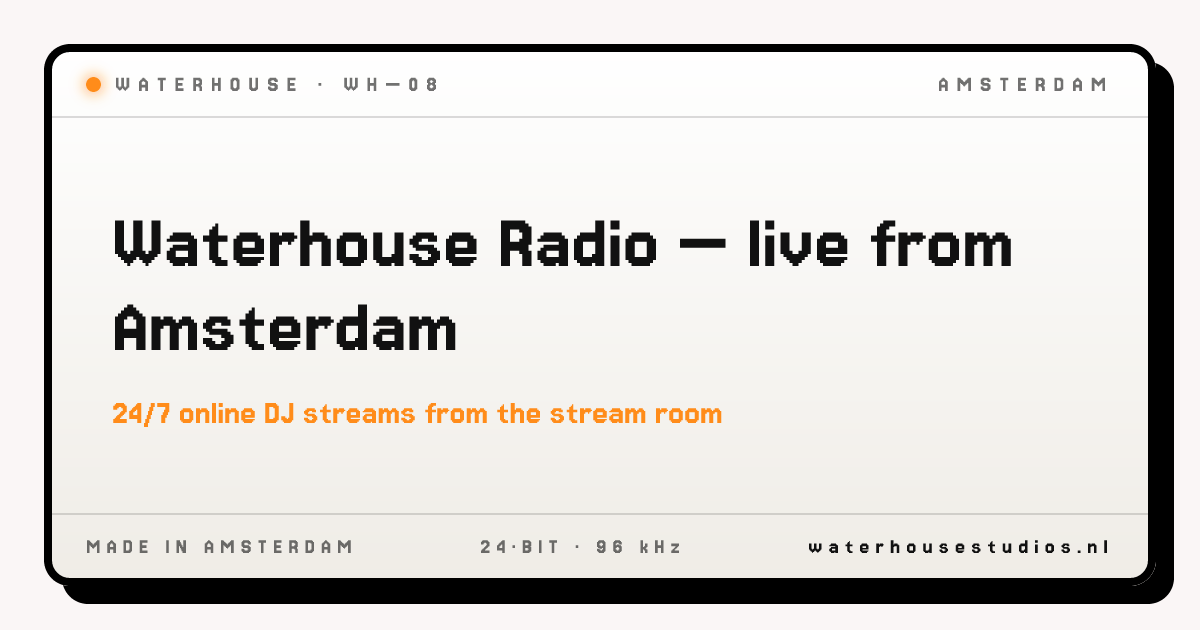
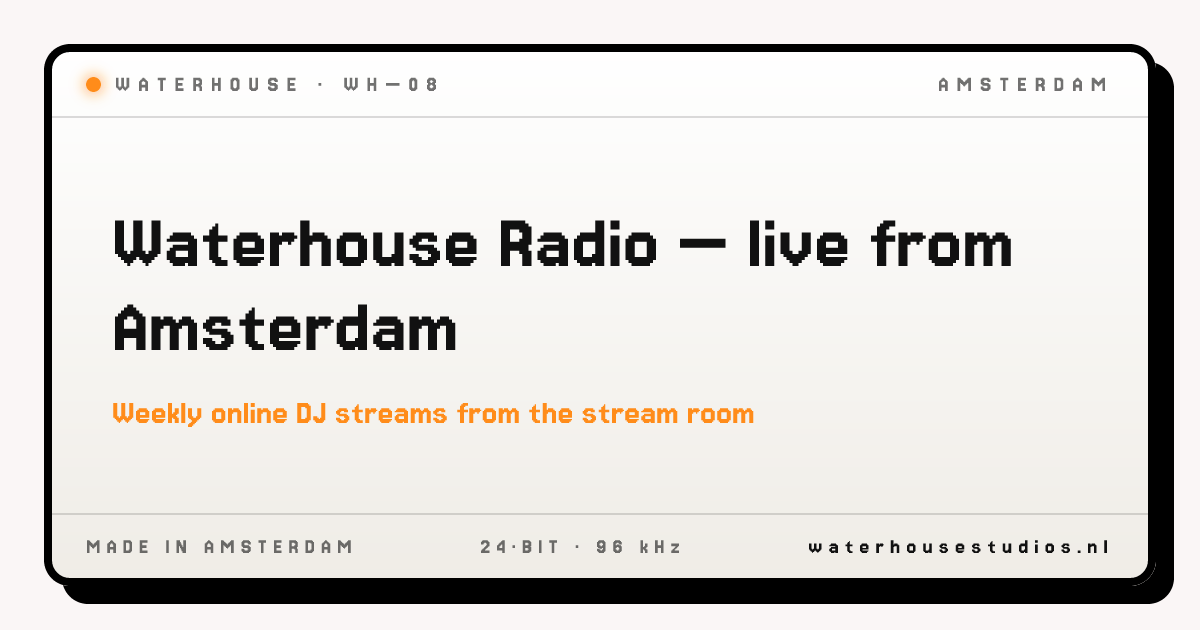
Fix incorrect "24/7" claim on Waterhouse Radio; it airs weekly
Corrects copy across schema/JSON-LD, page descriptions, footer, llms.txt,
and the SEO spec doc, and regenerates the two OG images that had the
same claim baked into their rendered text.

Claude-Session: https://claude.ai/code/session_01L8QQ4aauWsS84q96KdaSgT

Changed region(s): [[0.0925, 0.6333, 0.6475, 0.6937]]

diff --git a/src/lib/SiteFooter.svelte b/src/lib/SiteFooter.svelte
@@ -12,7 +12,7 @@
 			<img src="/logo.png" width="160" height="40" alt="Waterhouse Studios" class="mb-3" />
 			<p class="max-w-sm text-sm opacity-70">
 				{SITE.facts.studioCount} acoustically designed music studios, ateliers, an artist residency,
-				live events and 24/7 online radio — built by DJs and musicians for creators in Amsterdam.
+				live events and weekly online radio — built by DJs and musicians for creators in Amsterdam.
 			</p>
 		</div>
 

diff --git a/src/lib/seo/schema.ts b/src/lib/seo/schema.ts
@@ -119,7 +119,7 @@ export function radioStationSchema() {
 		name: 'Waterhouse Radio',
 		broadcastDisplayName: 'Waterhouse Studios Live',
 		description:
-			'A 24/7 online radio stream broadcasting live DJ sets and shows from Amsterdam artists, streamed from the Waterhouse Studios stream room on Twitch.',
+			'A weekly online radio stream broadcasting live DJ sets and shows from Amsterdam artists, streamed from the Waterhouse Studios stream room on Twitch.',
 		url: `${SITE.url}/radio`,
 		provider: { '@id': VENUE_ID },
 		broadcaster: { '@id': VENUE_ID },

diff --git a/src/lib/site.ts b/src/lib/site.ts
@@ -8,7 +8,7 @@ export const SITE = {
 	url: 'https://waterhousestudios.nl',
 	tagline: 'Music studios, events & online radio in Amsterdam',
 	description:
-		'Waterhouse Studios rents 25 acoustically designed music studios in Amsterdam (Houthaven), from €30/hour shared sessions to €1,100/month private 24/7 studios. Home to an artist residency, live events and a 24/7 online radio stream of Amsterdam DJs and artists.',
+		'Waterhouse Studios rents 25 acoustically designed music studios in Amsterdam (Houthaven), from €30/hour shared sessions to €1,100/month private 24/7 studios. Home to an artist residency, live events and a weekly online radio stream of Amsterdam DJs and artists.',
 	email: '[email redacted]',
 	// Physical location — Houthaven / western harbour, Amsterdam.
 	address: {

diff --git a/src/routes/about/+page.svelte b/src/routes/about/+page.svelte
@@ -28,7 +28,7 @@
 			Waterhouse Studios is a launchpad built by DJs and musicians for creators in Amsterdam's
 			Houthaven. Everything we offer is tailored to the needs of music creators and the people working
 			in the music industry: {SITE.facts.studioCount} acoustically designed studios, ateliers, an
-			artist residency, an event space for up to {SITE.facts.eventCapacity} people, and a 24/7 online
+			artist residency, an event space for up to {SITE.facts.eventCapacity} people, and a weekly online
 			radio stream — all in one place.
 		</p>
 

diff --git a/src/routes/faq/+page.svelte b/src/routes/faq/+page.svelte
@@ -22,7 +22,7 @@
 		},
 		{
 			q: 'Can I livestream from Waterhouse Studios?',
-			a: 'Yes. Every studio and atelier membership includes access to the stream room, a full DJ rig built for broadcasting live to Twitch and YouTube. We run Waterhouse Radio, a 24/7 online stream of Amsterdam DJs and artists.'
+			a: 'Yes. Every studio and atelier membership includes access to the stream room, a full DJ rig built for broadcasting live to Twitch and YouTube. We run Waterhouse Radio, a weekly online stream of Amsterdam DJs and artists.'
 		},
 		{
 			q: 'What is the Waterhouse artist residency?',

diff --git a/src/routes/radio/+page.svelte b/src/routes/radio/+page.svelte
@@ -17,7 +17,7 @@
 <Seo
 	title="Waterhouse Radio — Live Online DJ Streams from Amsterdam"
 	image="/og/radio.png"
-	description="Waterhouse Radio broadcasts live DJ sets and shows from Amsterdam artists 24/7. Watch the stream from the Waterhouse Studios stream room on Twitch."
+	description="Waterhouse Radio broadcasts live DJ sets and shows from Amsterdam artists weekly. Watch the stream from the Waterhouse Studios stream room on Twitch."
 />
 <JsonLd schema={graph(radioStationSchema(), breadcrumb([{ name: 'Radio', path: '/radio' }]))} />
 

diff --git a/docs/SEO_SPEC.md b/docs/SEO_SPEC.md
@@ -96,7 +96,7 @@ Add `src/routes/sitemap.xml/+server.ts` with `export const prerender = true`, em
 - **`og:image` / `twitter:image`:** create a 1200×630 branded card (the `og-image` skill in this repo can generate it from the existing design system), place at `static/og.png`, reference with absolute URL. Per-page overrides for events.
 - **Unique title + description per route.** Homepage title should carry the money keywords, e.g.:
   - Title: `Waterhouse Studios — Music Studio Rental, Events & Online Radio in Amsterdam`
-  - Description: `25 acoustically designed music studios for rent in Amsterdam (Houthaven). Shared studios from €30/hr, private 24/7 studios, ateliers, live events and 24/7 online radio from Amsterdam's DJ community.`
+  - Description: `25 acoustically designed music studios for rent in Amsterdam (Houthaven). Shared studios from €30/hr, private 24/7 studios, ateliers, live events and weekly online radio from Amsterdam's DJ community.`
 - Recommended pattern (SvelteKit official): return SEO fields from each page's `load`, render once in root layout `<svelte:head>`.
 
 ### 3.5 Bug fixes